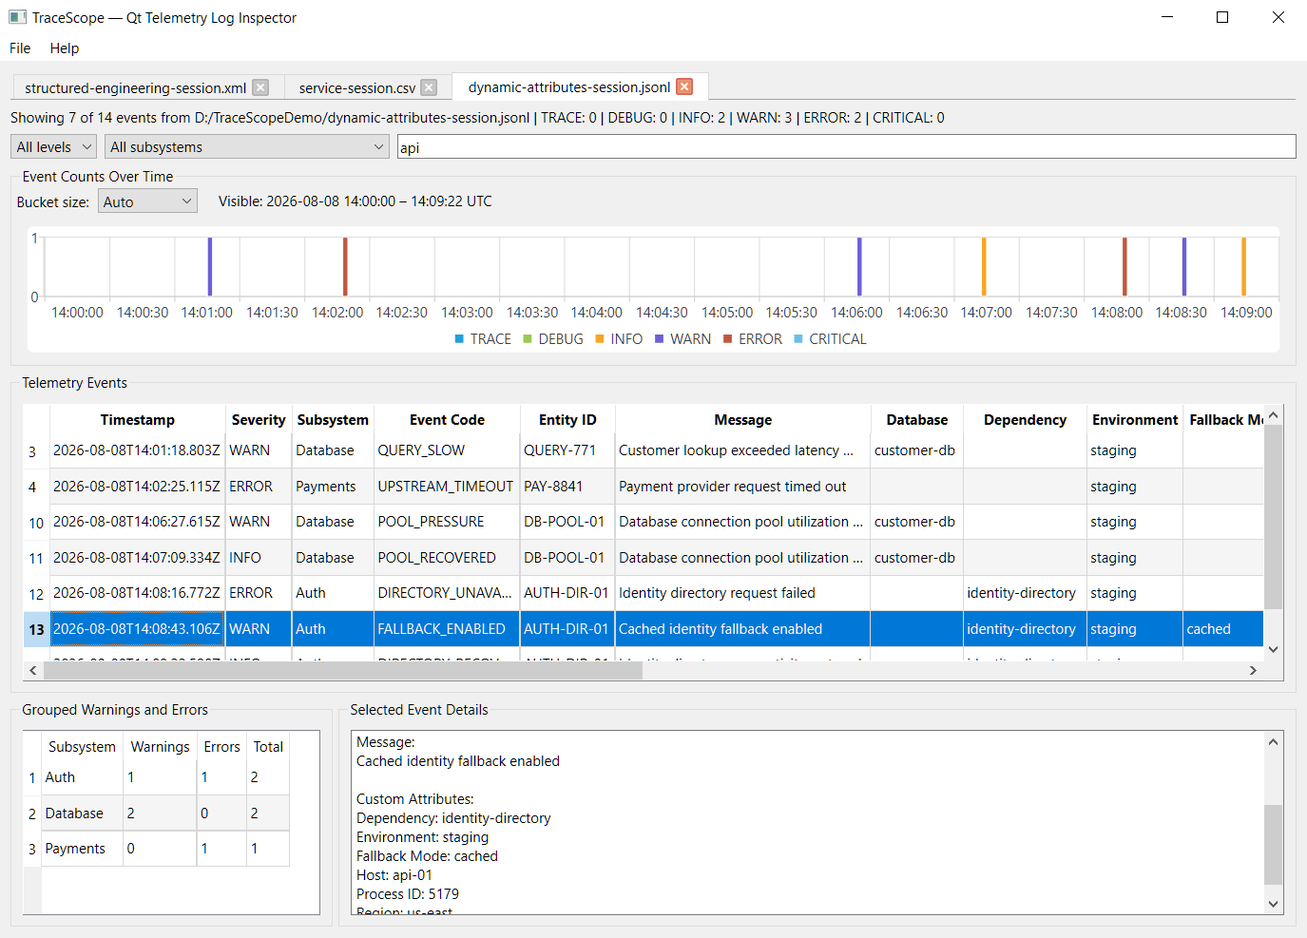
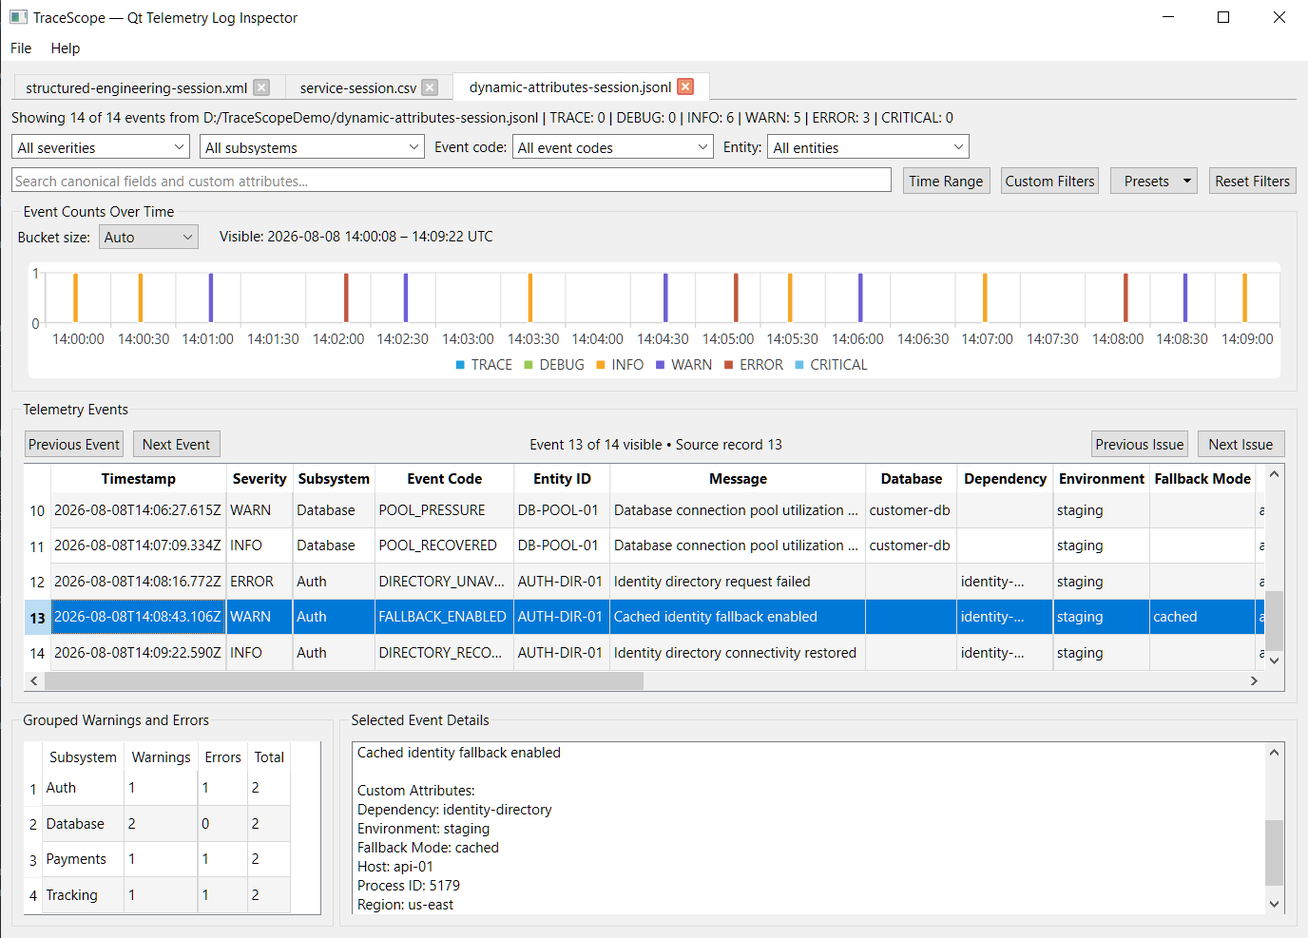
Refresh documentation and screenshots for v0.10.0

diff --git a/README.md b/README.md
@@ -4,7 +4,7 @@
 
 TraceScope is a native C++/Qt desktop application for importing, normalizing, filtering, inspecting, visualizing, and exporting structured telemetry and diagnostic logs.
 
-It began as a focused JSON Lines inspector and has grown into a configurable offline workbench. The current `v0.9.0` release adds a multi-session investigation workspace so related logs can remain open together, retain independent investigation state, reload in place, and be reopened efficiently through persistent recent-file and recent-profile history. This builds on the responsive background import, cancellation, large-document preview safeguards, and scalable timeline work completed in `v0.8.0`.
+It began as a focused JSON Lines inspector and has grown into a configurable offline workbench. The current `v0.10.0` release adds advanced filtering and navigation so investigators can combine canonical and source-specific criteria, save reusable filter presets, move quickly through visible events and warning/error-class records, and drill down from grouped summaries and timeline buckets. This builds on the multi-session workspace, persistent recent history, responsive background import, cancellation, large-document preview safeguards, and scalable timeline behavior completed in earlier milestones.
 
 TraceScope is intended for file-based logs from applications, services, simulated devices, sensors, QA runs, field-support packages, and engineering test systems. It does not claim to automatically understand every arbitrary log format or guarantee a fixed maximum file size. Import behavior stays explicit, testable, and reproducible.
 
@@ -16,7 +16,7 @@ TraceScope is intended for file-based logs from applications, services, simulate
 
 ## Screenshots
 
-The `v0.9.0` screenshots use the repository samples and reusable profiles to show the current import, multi-session investigation, filtering, timeline, recent-history, large-file, and export workflows. The structured XML engineering session remains the primary walkthrough source, while CSV and JSON Lines samples demonstrate related sessions coexisting in the same workspace.
+The `v0.10.0` screenshots use the repository samples and reusable profiles to show the current import, multi-session investigation, advanced filtering and navigation, timeline, recent-history, large-file, and export workflows. The structured XML engineering session remains the primary walkthrough source, while CSV and JSON Lines samples demonstrate related sessions coexisting in the same workspace.
 
 ### Import Configuration
 
@@ -26,7 +26,7 @@ Choose or drag in a source file, review the suggested format, load or edit a reu
 
 ### TraceScope Dashboard
 
-The main investigation view combines summary counts, filtering controls, selectable timeline resolution, dynamic source-specific columns, grouped issue counts, and selected-record details.
+The main investigation view combines summary counts, advanced filtering controls, selectable timeline resolution, dynamic source-specific columns, grouped issue counts, event/issue navigation, visible/source-record position context, and selected-record details.
 
 ![TraceScope Dashboard](docs/screenshots/tracescope-dashboard.png)
 
@@ -36,15 +36,15 @@ Multiple imported sources can remain open together as independent investigation 
 
 ![TraceScope Multi-Session Workspace](docs/screenshots/tracescope-multi-session-workspace.png)
 
-### Filtered Warnings
+### Advanced Filtering and Navigation
 
-Filtering updates the table, summaries, grouped issues, timeline, and visible custom fields together. Empty timeline intervals remain visible between the first and last matching records so gaps are not hidden by the filter.
+Canonical and source-specific filters can be combined across severity, subsystem, event code, entity, time range, search text, and dynamic custom fields. Named presets preserve reusable filter states, while adjacent-event and warning/error-class navigation move through the currently visible sorted investigation without losing source-record context.
 
-![TraceScope Filtered Warnings](docs/screenshots/tracescope-filtered-warnings.png)
+![TraceScope Advanced Filtering and Navigation](docs/screenshots/tracescope-filtered-warnings.png)
 
 ### Fine-Resolution Timeline Navigation
 
-Manual fine-resolution buckets use a bounded visible window with horizontal navigation instead of attempting to render an unbounded number of chart buckets at once. Timeline labels, legend placement, and vertical scaling remain usable while navigating.
+Manual fine-resolution buckets use a bounded visible window with horizontal navigation instead of attempting to render an unbounded number of chart buckets at once. Timeline labels, legend placement, and vertical scaling remain usable while navigating, and double-clicking a visible bar drills into its exact time bucket and represented severity when applicable.
 
 ![TraceScope Timeline Navigation](docs/screenshots/tracescope-timeline-navigation.png)
 
@@ -70,19 +70,19 @@ The export workflow writes the currently visible records to CSV using readable c
 
 Portable packages are published through [GitHub Releases](https://github.com/w-cook/tracescope-qt-log-inspector/releases).
 
-The current `v0.9.0` package set uses:
+The current `v0.10.0` package set uses:
 
 ```text
-TraceScope-v0.9.0-windows-x64.zip
-TraceScope-v0.9.0-linux-x86_64.AppImage
-TraceScope-v0.9.0-samples.zip
+TraceScope-v0.10.0-windows-x64.zip
+TraceScope-v0.10.0-linux-x86_64.AppImage
+TraceScope-v0.10.0-samples.zip
 ```
 
-Historical `v0.1.0` through `v0.8.0` prereleases remain available as earlier development milestones.
+Historical `v0.1.0` through `v0.9.0` prereleases remain available as earlier development milestones.
 
 ### Windows
 
-1. Download `TraceScope-v0.9.0-windows-x64.zip`.
+1. Download `TraceScope-v0.10.0-windows-x64.zip`.
 2. Extract the complete ZIP.
 3. Launch `TraceScope.exe`.
 4. Open a file from the included `samples` directory.
@@ -91,22 +91,22 @@ The package includes the required Qt libraries, plugins, MinGW runtime dependenc
 
 ### Linux
 
-1. Download `TraceScope-v0.9.0-linux-x86_64.AppImage`.
+1. Download `TraceScope-v0.10.0-linux-x86_64.AppImage`.
 2. Make it executable:
 
 ```bash
-chmod +x TraceScope-v0.9.0-linux-x86_64.AppImage
+chmod +x TraceScope-v0.10.0-linux-x86_64.AppImage
 ```
 
 3. Launch it:
 
 ```bash
-./TraceScope-v0.9.0-linux-x86_64.AppImage
+./TraceScope-v0.10.0-linux-x86_64.AppImage
 ```
 
 ### Sample Logs and Profiles
 
-`TraceScope-v0.9.0-samples.zip` provides a platform-neutral copy of the repository samples and reusable profiles.
+`TraceScope-v0.10.0-samples.zip` provides a platform-neutral copy of the repository samples and reusable profiles.
 
 Representative source/profile pairs include:
 
@@ -185,14 +185,27 @@ See [Performance Notes](docs/performance.md) for the measurement method, test en
 - Display investigation records in a sortable Qt model/view table
 - Show canonical fields only when they are present in the loaded dataset
 - Add discovered source-specific attributes as dynamic columns
-- Filter by severity and subsystem
+- Filter by multiple severities and by subsystem
+- Expose event-code and entity filters only when those canonical values are present
+- Filter by optional UTC time-range bounds when timestamps are available
+- Add multiple exact-value custom-field criteria, using OR semantics for multiple values of the same field and AND semantics across different fields and other filter categories
+- Add exact-value custom-field filters directly from visible table cells through the context menu
 - Search case-insensitively across canonical fields and custom attributes
+- Reset the complete active filter state
+- Save, overwrite, apply, and delete persistent named filter presets stored in local application settings
+- Restore reusable preset criteria safely across sessions while ignoring categorical or custom-field criteria unavailable in the active investigation
+- Apply complete filter-state changes as one model update to avoid repeated large-dataset proxy resets
 - Preserve correct selected-record mapping after sorting and filtering
 - Inspect canonical fields, custom attributes, and raw source for the selected record
+- Navigate to previous/next visible events in the current filtered and sorted order
+- Navigate cyclically between visible warning, error, and critical records
+- Show visible event position together with the preserved source-record number
 - View session-level event counts and grouped warning/error summaries
+- Double-click grouped issue-summary cells to narrow the investigation by subsystem and represented issue class without discarding unrelated active filters
 - Visualize filtered event counts with automatic or manually selected timeline resolutions from millisecond through day-scale intervals
 - Preserve empty timeline intervals within the displayed range so gaps remain visible
 - Use bounded windowed rendering and horizontal navigation when fine resolutions would otherwise produce too many timeline buckets
+- Double-click timeline bars to narrow the investigation to the exact represented time bucket and severity when applicable
 - Keep timeline range context, legend placement, and vertical scaling stable while navigating
 
 ### Export, Samples, and Verification
@@ -242,7 +255,7 @@ Different source formats need different amounts of configuration. TraceScope kee
 
 Import profiles map source-specific field names into the optional canonical fields and can also promote useful source values into readable custom columns. Values that are not explicitly mapped can still be preserved.
 
-Windows Event XML support covers XML-formatted events and collections. Native binary `.evtx` ingestion is not part of `v0.9.0`.
+Windows Event XML support covers XML-formatted events and collections. Native binary `.evtx` ingestion is not part of `v0.10.0`.
 
 ## Development Status
 
@@ -260,8 +273,9 @@ Implemented expansion milestones:
 | `v0.7.0` | Additional built-in formats, format detection/presets, and expanded cross-format samples |
 | `v0.8.0` | Responsive large-file import, progress/cancellation, scalable timeline resolution/navigation, and measured performance scenarios |
 | `v0.9.0` | Multi-session workspace, per-session context and reload, persistent recent files/profiles, and session-switching responsiveness |
+| `v0.10.0` | Advanced canonical/custom filtering, persistent filter presets, event/issue navigation, and summary/timeline drill-down |
 
-The current release is **`v0.9.0`**. **Phase 9 — Advanced Filtering and Navigation** is in progress for the next development milestone. Later phases add bookmarks and findings, deterministic analytics, session comparison, workspace persistence, live file following, and reporting.
+The current release is **`v0.10.0`**. **Phase 10 — Bookmarks, Notes, and Findings** is the next planned development phase. Later phases add deterministic analytics, session comparison, workspace persistence, live file following, reporting, responsive display hardening, and the stable `v1.0.0` release.
 
 Planned capabilities are not presented as implemented until their corresponding phases are completed and verified.
 
@@ -315,7 +329,7 @@ src/
 ├── importing/                    # Importers, profiles, validation, preview, results, and diagnostics
 ├── models/                       # Investigation table and filter proxy models
 ├── parsing/                      # JSON Lines compatibility facade
-├── preferences/                  # Persistent recent-file and recent-profile history
+├── preferences/                  # Persistent recent histories and filter presets
 ├── ui/                           # Import configuration interface
 ├── workspace/                    # Multi-session workspace and per-session context
 ├── MainWindow.cpp                # Qt Widgets presentation and workflow orchestration
@@ -360,7 +374,7 @@ cmake --build build --parallel
 ctest --test-dir build --output-on-failure
 ```
 
-The current CTest suite contains 28 executables:
+The current CTest suite contains 29 executables:
 
 - `ParserTests`
 - `RecordSeverityTests`
@@ -390,8 +404,9 @@ The current CTest suite contains 28 executables:
 - `InvestigationSessionTests`
 - `InvestigationWorkspaceTests`
 - `RecentItemsStoreTests`
+- `FilterPresetStoreTests`
 
-Coverage includes the flexible record domain, import results and diagnostics, each built-in importer family, import execution progress/cancellation, profile validation and serialization, preview and format-suggestion behavior, filtering and analysis, dynamic CSV export, Qt model/view behavior, proxy/source mapping, controller coordination, per-session state, multi-session workspace behavior, reload semantics, and persistent recent-item history.
+Coverage includes the flexible record domain, import results and diagnostics, each built-in importer family, import execution progress/cancellation, profile validation and serialization, preview and format-suggestion behavior, advanced filtering and analysis, complete filter-state batching, filter-preset persistence, event/issue navigation, dynamic CSV export, Qt model/view behavior, proxy/source mapping, controller coordination, per-session state, multi-session workspace behavior, reload semantics, and persistent recent-item history.
 
 The same CTest suite runs in GitHub Actions on Windows and Linux.
 
@@ -399,9 +414,9 @@ The same CTest suite runs in GitHub Actions on Windows and Linux.
 
 The GitHub Actions workflow runs three parallel jobs with read-only repository permissions:
 
-- **Windows x64:** pinned Qt/MinGW Release build, CTest, `windeployqt`, package verification, startup smoke test, and `TraceScope-v0.9.0-windows-x64.zip`
-- **Linux x86_64:** pinned Qt/GCC Release build on Ubuntu 22.04, CTest, `linuxdeploy`, AppImage verification, offscreen startup smoke test, and `TraceScope-v0.9.0-linux-x86_64.AppImage`
-- **Samples:** verifies representative source/profile pairs and packages the complete `samples` directory as `TraceScope-v0.9.0-samples.zip`
+- **Windows x64:** pinned Qt/MinGW Release build, CTest, `windeployqt`, package verification, startup smoke test, and `TraceScope-v0.10.0-windows-x64.zip`
+- **Linux x86_64:** pinned Qt/GCC Release build on Ubuntu 22.04, CTest, `linuxdeploy`, AppImage verification, offscreen startup smoke test, and `TraceScope-v0.10.0-linux-x86_64.AppImage`
+- **Samples:** verifies representative source/profile pairs and packages the complete `samples` directory as `TraceScope-v0.10.0-samples.zip`
 
 Workflow artifacts validate candidate packages. Approved packages are attached permanently to GitHub Releases.
 

diff --git a/docs/expansion-roadmap.md b/docs/expansion-roadmap.md
@@ -119,12 +119,7 @@ Completed release milestones:
 | `v0.7.0` | Additional Built-In Formats | prerelease |
 | `v0.8.0` | Responsive Large-File Import | prerelease |
 | `v0.9.0` | Multi-Session Investigation Workspace | prerelease |
-
-Current development target:
-
-| Version | Milestone | Status |
-| --- | --- | --- |
-| `v0.10.0` | Advanced Filtering and Navigation | in progress |
+| `v0.10.0` | Advanced Filtering and Navigation | prerelease |
 
 Release assets follow a consistent naming convention:
 
@@ -161,7 +156,7 @@ The `v0.2.0` implementation includes typed severity parsing, ISO timestamp parsi
 
 ## Import Architecture
 
-Implemented foundations through `v0.9.0`:
+Implemented foundations through `v0.10.0`:
 
 * flexible investigation records with optional canonical fields and preserved source data
 * structured import results and diagnostics
@@ -186,12 +181,16 @@ Implemented foundations through `v0.9.0`:
 * multi-session workspace ownership with independent per-session investigation controllers and retained import context
 * session switching, closing, and in-place reload using stable session identities
 * persistent recent-file and recent-profile history backed by local application settings
+* advanced canonical and source-specific filtering with multi-severity, time-range, event-code, entity, and dynamic custom-field criteria
+* persistent named filter presets backed by local application settings
+* adjacent-event and warning/error-class navigation over the current sorted and filtered investigation
+* grouped issue-summary and timeline-bucket drill-down that narrows the active filter state without discarding unrelated criteria
 
 Reusable import profiles are versioned, human-readable JSON so mappings can be reused, shared, and committed alongside the applications that produce the logs. The desktop workflow now exposes those profile and preview services directly while keeping import behavior explicit and reproducible.
 
 Importers are registered internally. An external binary plugin ecosystem is not part of the initial expansion.
 
-Phase 6 established the representative ingestion baseline in `v0.7.0`. Phase 7 then shifted attention from format breadth to responsiveness and investigation scalability. The `v0.8.0` release keeps supported imports responsive through background parsing, progress/cancellation behavior, large-structured-document preview safeguards, and timeline scaling work. Phase 8 completed the transition from a single replaceable investigation to a multi-session workspace in `v0.9.0`. Phase 9 is now in progress and focuses on advanced filtering and navigation before later phases add findings, deterministic analytics, comparison, persistence, live following, and reporting rather than returning to open-ended format expansion.
+Phase 6 established the representative ingestion baseline in `v0.7.0`. Phase 7 then shifted attention from format breadth to responsiveness and investigation scalability. The `v0.8.0` release keeps supported imports responsive through background parsing, progress/cancellation behavior, large-structured-document preview safeguards, and timeline scaling work. Phase 8 completed the transition from a single replaceable investigation to a multi-session workspace in `v0.9.0`. Phase 9 completed the advanced filtering, preset, navigation, and drill-down workflow in `v0.10.0`. Later phases add findings, deterministic analytics, comparison, persistence, live following, reporting, and final display hardening rather than returning to open-ended format expansion.
 
 ## Development Phases
 
@@ -482,24 +481,38 @@ Completed deliverables:
 
 ### Phase 9 — Advanced Filtering and Navigation
 
-**Status: In progress; targeted for `v0.10.0`.**
+**Status: Completed in `v0.10.0`.**
 
-Expand investigation controls beyond the prototype filters so users can move efficiently from a large normalized record set to the small portion relevant to a failure, warning pattern, subsystem, entity, time window, or source-specific field.
+Expanded investigation controls beyond the prototype filters so users can move efficiently from a large normalized record set to the portion relevant to a failure, warning pattern, subsystem, entity, time window, or source-specific field.
 
-Canonical fields remain optional. Filters that depend on event code, entity ID, severity, or other canonical values should be available when those values exist without preventing investigation of sources that rely primarily on dynamic custom attributes.
+Canonical fields remain optional. Controls that depend on event code, entity ID, severity, timestamp, or another canonical value appear only when the active investigation provides the required data, while search and source-specific custom-field filtering remain useful for less standardized sources.
 
-Planned deliverables:
+Completed deliverables:
 
-* multiple severity selection
-* time-range filtering
-* event-code filtering when present
-* entity filtering when present
-* dynamic custom-field filtering
-* filter reset
-* saved filter presets
-* next and previous warning/error navigation
-* surrounding-event navigation
-* drill-down from charts and summaries
+* multi-severity filtering through a compact multi-select control
+* time-range filtering with optional UTC start and end bounds
+* event-code filtering when event-code data is present
+* entity filtering when entity data is present
+* dynamic exact-value custom-field filtering when custom attributes are present
+* multiple values for the same custom field using OR semantics, combined with AND semantics across different custom fields and canonical filter categories
+* exclusion of records missing a custom field that is actively filtered
+* cached custom-field capability discovery without eagerly enumerating high-cardinality custom values
+* modeless time-range and custom-field filter interfaces with compact active-state summaries
+* custom-field table-cell context actions for copying values and adding exact-value filters directly from visible records
+* filter reset across canonical, text, time-range, and custom-field criteria
+* persistent named filter presets stored in local application settings
+* complete preset restoration across severity, subsystem, search, event code, entity, time range, and custom-field filters, with unavailable criteria ignored safely in different sessions
+* batched complete-filter-state application so one logical filter or preset change does not cause repeated large proxy-model resets
+* previous/next navigation across visible events in the current filtered and sorted table order
+* previous/next navigation across visible warning, error, and critical records, including wraparound behavior
+* compact navigation context showing visible position and preserved source-record number
+* grouped warning/error summary drill-down by subsystem and issue class while preserving unrelated active filters
+* timeline bucket drill-down to exact time ranges, with severity-aware bars narrowing to the represented severity while preserving unrelated active filters
+* drill-down behavior for automatic and manually selected timeline resolutions, including horizontally windowed fine-resolution timelines
+* automated coverage for preset persistence, complete filter-state batching, and controller navigation behavior
+* manual regression verification across representative and large-scale samples
+* Windows and Linux CI verification
+* refreshed release screenshots covering the advanced filtering and navigation workflow
 
 ### Phase 10 — Bookmarks, Notes, and Findings
 
@@ -520,7 +533,7 @@ Planned deliverables:
 
 Add deterministic, explainable investigation summaries that help users recognize timing, frequency, severity, subsystem, entity, and event-code patterns without turning TraceScope into a generalized observability dashboard.
 
-The scalable timeline foundation originally planned in this phase was pulled forward and completed during Phase 7 because large-file verification showed that timeline resolution, bucket sizing, and navigation were necessary to keep large investigations usable. Phase 11 should build new analysis on that existing timeline behavior rather than reimplement it.
+The scalable timeline foundation originally planned in this phase was pulled forward and completed during Phase 7 because large-file verification showed that timeline resolution, bucket sizing, and navigation were necessary to keep large investigations usable. Timeline and grouped-summary drill-down were then completed during Phase 9. Phase 11 should build new analysis on those existing behaviors rather than reimplement them.
 
 Analytics should degrade gracefully when a source does not provide a particular canonical field. A missing severity, event code, subsystem, or entity ID should disable or reduce only the analysis that depends on that field rather than reducing the usefulness of unrelated records.
 
@@ -531,7 +544,6 @@ Planned deliverables:
 * subsystem trends when subsystem data is present
 * severity trends when severity data is present
 * deterministic warning and error burst detection
-* timeline/summary drill-down to underlying records where it materially improves investigation flow
 
 Deterministic burst detection will not be described as AI anomaly detection.
 
@@ -564,7 +576,7 @@ Planned deliverables:
 * loaded-session persistence
 * bookmark persistence
 * note persistence
-* filter persistence
+* active per-session filter-state persistence within saved workspaces
 * comparison-selection persistence
 * versioned workspace schemas
 * missing-source handling
@@ -602,14 +614,22 @@ Planned deliverables:
 * selected-record copy as formatted text
 * offline HTML investigation reports
 
-### Phase 16 — Documentation and 1.0 Release
+### Phase 16 — Responsive Display Hardening, Documentation, and 1.0 Release
 
-Complete the expansion with polished documentation and a stable downloadable release that accurately presents TraceScope as a configurable offline log-analysis workbench for engineering and diagnostic use.
+Complete the expansion with display hardening, polished documentation, and a stable downloadable release that accurately presents TraceScope as a configurable offline log-analysis workbench for engineering and diagnostic use.
+
+Before `v1.0.0`, the desktop interface must remain practical in constrained layouts that are common during development and engineering investigation, including portrait-oriented monitors and horizontally split workspaces. Long source paths, large summary counts, session switching, and dense timelines must not force the application wider than the available workspace or make important controls inaccessible.
 
 Final documentation should make the supported-format boundary, optional canonical-field model, profile-driven import architecture, large-file behavior, investigation workflow, and scope exclusions clear enough that both prospective users and employers can understand what the application does without overstating its capabilities.
 
 Planned deliverables:
 
+* summary-text elision or equivalent truncation that preserves complete context through a tooltip or other explicit affordance without forcing the main window wider
+* practical narrow-window minimum sizing that does not derive from long summary text or other incidental content
+* responsive layout behavior for portrait monitors and horizontally split desktop workspaces
+* preservation of access to important controls and panels when switching between sessions with materially different summary lengths or presentation state
+* adaptive timeline label density or equivalent axis presentation that prevents bucket-label overlap at constrained widths
+* regression verification at representative portrait and split-screen window dimensions
 * final Windows distributable
 * automated release packaging
 * architecture documentation
